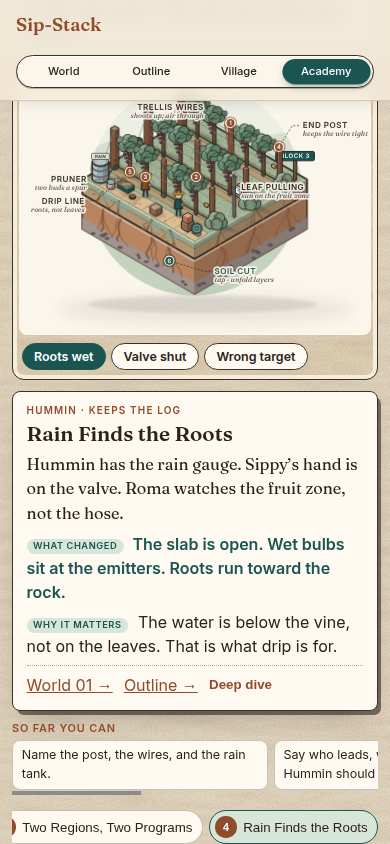
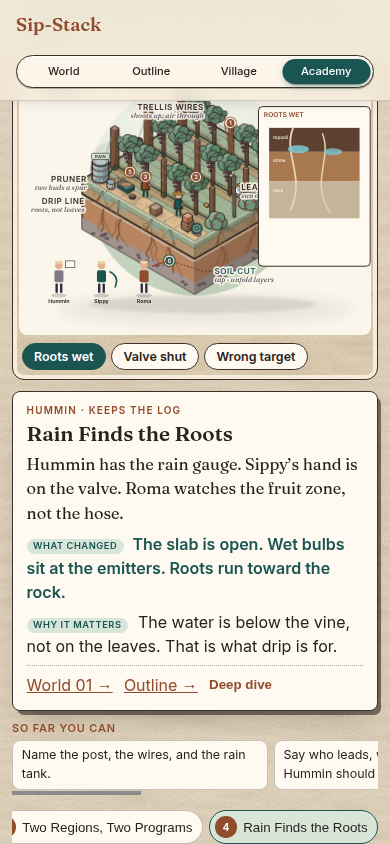
Add story layers on the wine academy boards.
Each beat now draws guides, weather, and a cutaway on the World scene, so the picture changes with the hotspot. Deep dives use a larger cut than the base stop.

diff --git a/docs/assets/sip-academy-layers.js b/docs/assets/sip-academy-layers.js
@@ -1,0 +1,224 @@
+// Academy-only story layers drawn on top of a World isometric scene.
+// Screen space inside the scene viewBox (-12 -4 264 198). Original Sip Studies.
+
+const ink = '#2a221d';
+const clay = '#914C2C';
+const teal = '#1A5552';
+const sand = '#EDD4A8';
+const mauve = '#817985';
+const wood = '#8a5a36';
+const grape = '#6a2030';
+
+const WHO = {
+  sippy: { fill: teal, name: 'Sippy' },
+  roma: { fill: clay, name: 'Roma' },
+  hummin: { fill: mauve, name: 'Hummin' },
+};
+
+function fig(x, y, who, tool) {
+  const fill = WHO[who].fill;
+  const toolSvg = {
+    shears: `<path d="M${x + 6} ${y - 8} l5 -6 m0 2 l5 1" stroke="${ink}" stroke-width=".9" fill="none"/>`,
+    glass: `<path d="M${x + 5} ${y - 20} h5 l1 7 h-7 z" fill="#f4e7c8" stroke="${ink}" stroke-width=".55"/>`,
+    book: `<rect x="${x + 5}" y="${y - 18}" width="7" height="5" fill="#fffaf1" stroke="${ink}" stroke-width=".45"/>`,
+    punch: `<rect x="${x + 6}" y="${y - 30}" width="1.6" height="14" fill="${wood}"/><ellipse cx="${x + 6.8}" cy="${y - 31}" rx="2.4" ry="1" fill="${clay}"/>`,
+    point: `<path d="M${x + 6} ${y - 14} l12 -4" stroke="${clay}" stroke-width="1.1" fill="none"/>`,
+    basket: `<path d="M${x + 4} ${y - 6} h7 l-1 4 h-5 z" fill="#c4a574" stroke="${ink}" stroke-width=".45"/>`,
+    hose: `<path d="M${x + 6} ${y - 10} q8 4 4 12" stroke="${teal}" stroke-width="1.2" fill="none"/>`,
+  }[tool] || '';
+  return `<g class="fig">
+    <ellipse cx="${x}" cy="${y + 8}" rx="6" ry="1.6" fill="#000" opacity=".16"/>
+    <rect x="${x - 2.6}" y="${y - 1}" width="1.8" height="7" rx=".5" fill="#2c3140"/>
+    <rect x="${x + .8}" y="${y - 1}" width="1.8" height="7" rx=".5" fill="#2c3140"/>
+    <rect x="${x - 3.4}" y="${y - 11}" width="6.8" height="9" rx="1.4" fill="${fill}"/>
+    <circle cx="${x}" cy="${y - 14.5}" r="2.8" fill="#e2b08a"/>
+    <ellipse cx="${x}" cy="${y - 17}" rx="3" ry="1.1" fill="${sand}"/>
+    ${toolSvg}
+    <text x="${x}" y="${y + 14}" text-anchor="middle" font-size="4" font-weight="700" fill="${ink}">${WHO[who].name}</text>
+  </g>`;
+}
+
+function sky(kind) {
+  if (kind === 'sun') return `<g class="sky"><circle cx="28" cy="16" r="7" fill="#f0b429"/><path d="M28 4 v4 M28 24 v4 M16 16 h4 M36 16 h4" stroke="#f0b429" stroke-width="1"/></g>`;
+  if (kind === 'frost') return `<g class="sky"><rect x="-12" y="-4" width="264" height="36" fill="#e7f2f8" opacity=".55"/><g fill="#fff" opacity=".9">${[12, 28, 46, 70, 96, 120].map(x => `<circle cx="${x}" cy="14" r="1.1"/>`).join('')}</g></g>`;
+  if (kind === 'rain') return `<g class="sky" stroke="${teal}" stroke-width=".7" opacity=".8">${[18, 32, 48, 64, 80].map(x => `<path d="M${x} 6 l-3 8"/>`).join('')}</g>`;
+  if (kind === 'night') return `<g class="sky"><rect x="-12" y="-4" width="264" height="42" fill="#1c2430" opacity=".28"/><circle cx="210" cy="14" r="2" fill="#f7e7a2"/></g>`;
+  if (kind === 'heat') return `<g class="sky"><circle cx="220" cy="14" r="8" fill="#e26a3a" opacity=".9"/></g>`;
+  return '';
+}
+
+function chip(x, y, text) {
+  const w = text.length * 3.15 + 6;
+  return `<g class="story-chip"><rect x="${x}" y="${y}" width="${w}" height="8" rx="1.5" fill="${teal}"/><text x="${x + w / 2}" y="${y + 5.5}" text-anchor="middle" font-size="4.2" font-weight="700" fill="#fff">${text}</text></g>`;
+}
+
+function plate(x, y, w, h, title) {
+  return { x, y, w, h, open: `<g class="plate"><rect x="${x}" y="${y}" width="${w}" height="${h}" rx="3" fill="#fffaf1" stroke="${ink}" stroke-width=".7"/><text x="${x + 4}" y="${y + 8}" font-size="5" font-weight="700" fill="${clay}">${title}</text>` , close: '</g>' };
+}
+
+function soilCut(big, wet) {
+  const p = plate(big ? 132 : 168, big ? 8 : 22, big ? 120 : 84, big ? 168 : 120, wet ? 'ROOTS WET' : 'SOIL CUT');
+  const x = p.x + 8, y = p.y + 16, w = p.w - 16;
+  const bands = [
+    ['#5d4030', 0, 18, 'topsoil'],
+    ['#a8784e', 18, 22, 'stone'],
+    ['#c4b49a', 40, 28, 'rock'],
+  ];
+  const roots = `<path d="M${x + 18} ${y} C ${x + 10} ${y + 20}, ${x + 28} ${y + 36}, ${x + 16} ${y + 62}" fill="none" stroke="#e7d3b0" stroke-width="1.4"/>
+    <path d="M${x + 40} ${y + 4} C ${x + 48} ${y + 24}, ${x + 30} ${y + 40}, ${x + 46} ${y + 64}" fill="none" stroke="#e7d3b0" stroke-width="1.1"/>`;
+  const bulbs = wet ? `<ellipse cx="${x + 22}" cy="${y + 16}" rx="8" ry="3" fill="#7ec8d4" opacity=".85"/><ellipse cx="${x + 48}" cy="${y + 18}" rx="7" ry="2.6" fill="#7ec8d4" opacity=".75"/>` : '';
+  const graft = big ? `<rect x="${x + w - 28}" y="${y - 2}" width="4" height="14" fill="${wood}"/><rect x="${x + w - 36}" y="${y + 10}" width="20" height="3" fill="${clay}"/><text x="${x + w - 34}" y="${y + 22}" font-size="3.6" fill="${ink}">graft</text><text x="${x + 4}" y="${y + 78}" font-size="3.6" fill="${ink}">you taste the wood above this line</text>` : '';
+  return p.open + bands.map(([c, dy, h, name]) => `<rect x="${x}" y="${y + dy}" width="${w}" height="${h}" fill="${c}"/><text x="${x + 3}" y="${y + dy + 8}" font-size="3.6" fill="#fffaf1">${name}</text>`).join('') + roots + bulbs + graft + p.close;
+}
+
+function berryCut(thick, big) {
+  const p = plate(big ? 128 : 162, big ? 6 : 16, big ? 124 : 90, big ? 172 : 128, thick ? 'THICK SKIN' : 'THIN SKIN');
+  const skin = thick ? (big ? 11 : 7) : (big ? 3 : 2.4);
+  const r = big ? 42 : 28;
+  const cx = p.x + p.w / 2, cy = p.y + (big ? 70 : 58);
+  const labels = big ? `<text x="${cx + r + 2}" y="${cy - r + 8}" font-size="3.6" fill="${ink}">skin</text><text x="${cx - 8}" y="${cy + 4}" font-size="3.6" fill="${ink}">pulp</text><text x="${cx - 10}" y="${cy + 16}" font-size="3.4" fill="${wood}">seed</text><text x="${p.x + 6}" y="${p.y + 150}" font-size="3.8" fill="${ink}">${thick ? 'days in the tank' : 'hours, then press'}</text>` : '';
+  return p.open + `<circle cx="${cx}" cy="${cy}" r="${r}" fill="${grape}"/><circle cx="${cx}" cy="${cy}" r="${Math.max(4, r - skin)}" fill="#e7b3c4"/><ellipse cx="${cx - 6}" cy="${cy}" rx="3" ry="5" fill="${wood}"/><ellipse cx="${cx + 7}" cy="${cy + 4}" rx="2.6" ry="4" fill="${wood}"/>${labels}<text x="${p.x + 6}" y="${p.y + (big ? 164 : 112)}" font-size="3.6" fill="${ink}">${thick ? 'skin stays in the tank' : 'short contact, pale glass'}</text>` + p.close;
+}
+
+function barrelCut(year, big) {
+  const p = plate(big ? 124 : 158, big ? 6 : 18, big ? 128 : 94, big ? 172 : 130, year ? 'ONE YEAR ON' : 'FRESH FILL');
+  const gap = year ? (big ? 22 : 16) : 4;
+  const stave = big ? `<path d="M${p.x + 18} ${p.y + 40} q-6 30 0 70" fill="none" stroke="#c4a574" stroke-width="2"/><text x="${p.x + 8}" y="${p.y + 36}" font-size="3.4" fill="${ink}">stave</text><text x="${p.x + 78}" y="${p.y + 36}" font-size="3.4" fill="${ink}">toast inside</text>` : '';
+  return p.open + stave + `<rect x="${p.x + (big ? 36 : 22)}" y="${p.y + (big ? 40 : 28)}" width="${big ? 58 : 50}" height="${big ? 90 : 70}" rx="6" fill="#6e4328" stroke="${ink}" stroke-width=".6"/>
+    <rect x="${p.x + (big ? 42 : 28)}" y="${p.y + (big ? 48 : 34)}" width="${big ? 46 : 38}" height="${gap}" fill="#d7e6ea"/>
+    <rect x="${p.x + (big ? 42 : 28)}" y="${p.y + (big ? 48 : 34) + gap}" width="${big ? 46 : 38}" height="${(big ? 74 : 64) - gap}" fill="${grape}"/>
+    <text x="${p.x + 8}" y="${p.y + (big ? 156 : 112)}" font-size="3.6" fill="${ink}">${year ? 'gap = ullage · top up' : 'bung in · no tally yet'}</text>` + p.close;
+}
+
+function labBench(which, big) {
+  const p = plate(big ? 124 : 156, big ? 6 : 16, big ? 128 : 96, big ? 172 : 132, big ? 'LAB · THREE GLASSES' : 'LAB SAMPLE');
+  const fills = { steel: '#f4e7c8', oak: grape, lees: '#e7dcc0', fault: '#c46a43' };
+  const fill = fills[which] || '#f4e7c8';
+  return p.open + [0, 1, 2].map(i => `<path d="M${p.x + 14 + i * 26} ${p.y + 36} h12 l2 28 h-16 z" fill="#f7fbfb" stroke="${ink}" stroke-width=".45"/><rect x="${p.x + 16 + i * 26}" y="${p.y + 48}" width="8" height="14" fill="${i === 1 ? fill : '#f4e7c8'}" opacity="${i === 1 ? 1 : .45}"/>`).join('') + `<rect x="${p.x + 12}" y="${p.y + 78}" width="70" height="28" fill="#fff" stroke="${ink}" stroke-width=".45"/><text x="${p.x + 16}" y="${p.y + 90}" font-size="3.6" fill="${ink}">lot · vessel · taste</text><text x="${p.x + 16}" y="${p.y + 98}" font-size="3.6" fill="${teal}">${which}</text>` + p.close;
+}
+
+function bins(kind) {
+  const p = plate(160, 20, 92, 124, kind === 'early' ? 'EARLY · ACID' : kind === 'ripe' ? 'RIPE · BODY' : 'DAWN PICK');
+  const color = kind === 'early' ? '#c4d48a' : '#6a2030';
+  return p.open + `<rect x="${p.x + 14}" y="${p.y + 28}" width="28" height="22" fill="${wood}"/><circle cx="${p.x + 24}" cy="${p.y + 36}" r="4" fill="${color}"/><circle cx="${p.x + 32}" cy="${p.y + 40}" r="3.5" fill="${color}"/><text x="${p.x + 10}" y="${p.y + 68}" font-size="3.8" fill="${ink}">${kind === 'early' ? 'seeds still sharp' : kind === 'ripe' ? 'seeds brown' : 'lamps on · fruit cool'}</text>` + (kind === 'crew' ? `<circle cx="${p.x + 70}" cy="${p.y + 24}" r="4" fill="#f7e7a2"/>` : '') + p.close;
+}
+
+function capTank() {
+  const p = plate(160, 14, 92, 132, 'RED CAP');
+  return p.open + `<rect x="${p.x + 22}" y="${p.y + 24}" width="48" height="70" rx="4" fill="#d7e0e4" stroke="${ink}" stroke-width=".6"/><rect x="${p.x + 26}" y="${p.y + 48}" width="40" height="40" fill="${grape}"/><rect x="${p.x + 26}" y="${p.y + 36}" width="40" height="14" fill="#4a1622"/><rect x="${p.x + 44}" y="${p.y + 16}" width="2" height="24" fill="${wood}"/><text x="${p.x + 8}" y="${p.y + 112}" font-size="3.6" fill="${ink}">skins floating · punch down</text>` + p.close;
+}
+
+function doorRow(open) {
+  const names = ['white', 'rose', 'red', 'champ', 'fort'];
+  const colors = { white: '#e8dfb4', rose: '#e7a3a8', red: grape, champ: '#d4c27a', fort: '#8a5426', none: '#3a332e' };
+  const p = plate(148, 18, 104, 120, open ? open.toUpperCase() + ' ONLY' : 'NO DOOR YET');
+  return p.open + names.map((n, i) => {
+    const on = n === open;
+    return `<rect x="${p.x + 8 + (i % 5) * 19}" y="${p.y + 28}" width="16" height="36" fill="${on ? colors[n] : '#2a2420'}" stroke="${on ? teal : '#111'}" stroke-width="${on ? 1 : .4}"/><text x="${p.x + 16 + i * 19}" y="${p.y + 78}" text-anchor="middle" font-size="3" fill="${ink}">${n[0].toUpperCase()}</text>`;
+  }).join('') + `<text x="${p.x + 8}" y="${p.y + 100}" font-size="3.5" fill="${ink}">${open ? 'other four stay shut' : 'sort first'}</text>` + p.close;
+}
+
+function glasses(mode) {
+  const p = plate(158, 18, 94, 120, mode === 'water' ? 'WATER FIRST' : mode === 'wine' ? 'A THIRD' : 'ONE STYLE EACH');
+  const fills = mode === 'water' ? ['#9fd0dc', '#9fd0dc'] : mode === 'wine' ? ['#9fd0dc', grape] : [sand, '#e7a3a8', grape, '#f7f3ea', '#8a5426'];
+  return p.open + fills.map((c, i) => `<path d="M${p.x + 10 + i * 16} ${p.y + 28} h8 l1 16 h-10 z" fill="#f7fbfb" stroke="${ink}" stroke-width=".4"/><rect x="${p.x + 12 + i * 16}" y="${p.y + 36}" width="5" height="7" fill="${c}"/>`).join('') + p.close;
+}
+
+function spurs() {
+  const p = plate(164, 22, 88, 116, 'BARE SPURS');
+  const posts = [0, 1, 2].map(i => `<rect x="${p.x + 16 + i * 22}" y="${p.y + 36}" width="3" height="28" fill="${'#5b4128'}"/><path d="M${p.x + 17 + i * 22} ${p.y + 40} l8 -6 m-8 8 l-7 -4" stroke="${'#5b4128'}" stroke-width="1.1" fill="none"/>`).join('');
+  return p.open + posts + `<text x="${p.x + 8}" y="${p.y + 84}" font-size="3.6" fill="${ink}">leaves gone · frame stays</text><text x="${p.x + 8}" y="${p.y + 96}" font-size="3.6" fill="${ink}">this sets next year’s crop</text>` + p.close;
+}
+
+function tankCut() {
+  const p = plate(164, 20, 88, 120, 'RAIN TANK');
+  return p.open + `<path d="M${p.x + 20} ${p.y + 28} h20 l6 8 v-20 h-10 z" fill="${clay}"/><rect x="${p.x + 36}" y="${p.y + 36}" width="28" height="40" rx="3" fill="${teal}"/><rect x="${p.x + 40}" y="${p.y + 52}" width="20" height="20" fill="#7ec8d4"/><text x="${p.x + 8}" y="${p.y + 96}" font-size="3.6" fill="${ink}">roof → tank, not leaves</text>` + p.close;
+}
+
+function crew(list) {
+  return list.map((c, i) => fig(18 + i * 28 + (c.dx || 0), 156, c.who, c.tool)).join('');
+}
+
+function crates(label) {
+  const p = plate(160, 24, 92, 112, label);
+  return p.open + `<rect x="${p.x + 16}" y="${p.y + 40}" width="22" height="16" fill="#c4965c" stroke="${ink}" stroke-width=".4"/><rect x="${p.x + 40}" y="${p.y + 32}" width="22" height="16" fill="#b8884e" stroke="${ink}" stroke-width=".4"/><rect x="${p.x + 30}" y="${p.y + 52}" width="22" height="16" fill="#a97a47" stroke="${ink}" stroke-width=".4"/><text x="${p.x + 8}" y="${p.y + 90}" font-size="3.6" fill="${ink}">shade · one load</text>` + p.close;
+}
+
+function crewFor(stopId, beatId) {
+  const table = {
+    campus: { row: [['sippy', 'point'], ['roma', 'glass'], ['hummin', 'book']], frame: [['sippy', 'shears'], ['hummin', 'book']], tank: [['sippy', 'hose'], ['hummin', 'book']] },
+    team: { on: [['sippy', 'hose'], ['roma', 'glass'], ['hummin', 'book']], off: [['sippy', 'point'], ['roma', 'glass'], ['hummin', 'book']], leaf: [['sippy', 'point'], ['roma', 'glass']] },
+    regions: { both: [['roma', 'glass'], ['sippy', 'point'], ['hummin', 'book']], cool: [['roma', 'glass'], ['hummin', 'book']], warm: [['roma', 'glass'], ['sippy', 'point']] },
+    rain: { roots: [['hummin', 'book'], ['sippy', 'hose'], ['roma', 'point']], shut: [['hummin', 'book'], ['sippy', 'point']], leaves: [['roma', 'point'], ['sippy', 'hose']] },
+    berry: { three: [['roma', 'glass'], ['hummin', 'book'], ['sippy', 'point']], thin: [['roma', 'glass']], thick: [['roma', 'glass'], ['hummin', 'book']] },
+    harvest: { early: [['sippy', 'basket'], ['roma', 'point'], ['hummin', 'book']], ripe: [['sippy', 'basket'], ['roma', 'glass']], crew: [['sippy', 'basket'], ['roma', 'point']] },
+    crush: { all: [['sippy', 'basket'], ['hummin', 'book']], loop: [['hummin', 'hose'], ['sippy', 'point']], channel: [['hummin', 'hose']] },
+    ferment: { red: [['roma', 'point'], ['sippy', 'punch']], cap: [['sippy', 'punch'], ['roma', 'glass']], wait: [['roma', 'glass'], ['hummin', 'book']] },
+    crossroads: { white: [['sippy', 'point']], rose: [['sippy', 'point'], ['roma', 'glass']], red: [['sippy', 'punch'], ['roma', 'glass']], champ: [['hummin', 'book'], ['sippy', 'point']], fort: [['hummin', 'book'], ['roma', 'glass']] },
+    lab: { steel: [['hummin', 'book'], ['roma', 'glass']], oak: [['roma', 'glass'], ['hummin', 'book']], lees: [['roma', 'glass'], ['hummin', 'book']] },
+    barrels: { young: [['hummin', 'book'], ['roma', 'glass']], year: [['hummin', 'book'], ['sippy', 'point']], taste: [['roma', 'glass'], ['hummin', 'book']] },
+    bench: { marks: [['hummin', 'shears'], ['sippy', 'point']], young: [['hummin', 'shears']], smell: [['hummin', 'point'], ['roma', 'glass']] },
+    finish: { cold: [['roma', 'glass'], ['hummin', 'book']], clay: [['roma', 'glass']], oak: [['roma', 'glass'], ['hummin', 'book']] },
+    give: { light: [['hummin', 'point'], ['sippy', 'basket']], heavy: [['hummin', 'point']], dock: [['sippy', 'basket']] },
+    bottle: { cork: [['sippy', 'point'], ['hummin', 'book']], screw: [['hummin', 'book'], ['sippy', 'point']], fill: [['sippy', 'point']] },
+    passport: { label: [['hummin', 'book']], cork: [['hummin', 'book'], ['sippy', 'point']], case: [['sippy', 'basket'], ['hummin', 'book']] },
+    flight: { counter: [['roma', 'glass'], ['sippy', 'point'], ['hummin', 'book']], walls: [['sippy', 'point']], chill: [['roma', 'glass']] },
+    journey: { truck: [['sippy', 'basket'], ['hummin', 'book']], dock: [['sippy', 'point']], heavy: [['sippy', 'basket']] },
+    market: { walls: [['sippy', 'point'], ['hummin', 'book']], fifo: [['hummin', 'book'], ['sippy', 'basket']], cold: [['roma', 'glass']] },
+    list: { till: [['sippy', 'point'], ['roma', 'book']], walls: [['sippy', 'point']], glass: [['roma', 'glass']] },
+    handoff: { water: [['sippy', 'glass'], ['roma', 'point']], host: [['sippy', 'point'], ['hummin', 'book']], list: [['roma', 'book'], ['sippy', 'point']] },
+    sip: { pour: [['roma', 'glass'], ['hummin', 'book']], nose: [['roma', 'glass']], ice: [['sippy', 'point'], ['roma', 'glass']] },
+  };
+  const row = table[stopId]?.[beatId] || [['sippy', 'point'], ['roma', 'glass'], ['hummin', 'book']];
+  return crew(row.map(([who, tool], i) => ({ who, tool, dx: i * 4 })));
+}
+
+function plateFor(stopId, beatId, dive) {
+  if (dive && (stopId === 'rain' || beatId === 'graft' || beatId === 'phylloxera' || beatId === 'soil' || beatId === 'drip' || beatId === 'save')) {
+    return soilCut(true, beatId === 'drip' || beatId === 'roots' || beatId === 'leaf');
+  }
+  if (dive && (stopId === 'berry' || beatId === 'vinifera' || beatId === 'american' || beatId === 'clones' || beatId === 'hybrids')) {
+    return berryCut(beatId === 'vinifera' || beatId === 'thick', true);
+  }
+  if (dive && (stopId === 'lab' || beatId === 'numbers' || beatId === 'sulfur' || beatId === 'clear' || beatId === 'fault' || beatId === 'log')) {
+    return labBench(beatId === 'fault' ? 'fault' : beatId === 'log' ? 'oak' : 'steel', true);
+  }
+  if (dive && (stopId === 'barrels' || beatId === 'ullage' || beatId === 'time' || beatId === 'species' || beatId === 'toast' || beatId === 'care')) {
+    return barrelCut(beatId === 'ullage' || beatId === 'time' || beatId === 'care' || beatId === 'year', true);
+  }
+  if (stopId === 'campus' && beatId === 'tank') return tankCut();
+  if (stopId === 'campus' && beatId === 'frame') return spurs();
+  if (stopId === 'rain' || stopId === 'team') return soilCut(false, beatId === 'roots' || beatId === 'on' || beatId === 'leaves');
+  if (stopId === 'berry') return berryCut(beatId === 'thick');
+  if (stopId === 'harvest') return bins(beatId);
+  if (stopId === 'ferment') return capTank();
+  if (stopId === 'crush') return doorRow(null);
+  if (stopId === 'crossroads') return doorRow(beatId);
+  if (stopId === 'lab' || stopId === 'finish') return labBench(beatId === 'oak' ? 'oak' : beatId === 'lees' ? 'lees' : 'steel');
+  if (stopId === 'barrels' || stopId === 'bench') return barrelCut(beatId === 'year' || beatId === 'marks' || beatId === 'smell');
+  if (stopId === 'handoff') return glasses('water');
+  if (stopId === 'sip') return glasses(beatId === 'pour' || beatId === 'nose' ? 'wine' : 'wine');
+  if (stopId === 'flight' || stopId === 'list') return glasses('flight');
+  if (stopId === 'journey' || stopId === 'give' || stopId === 'market') return crates(beatId === 'light' ? 'LIGHT GLASS' : beatId === 'heavy' ? 'HEAVY GLASS' : beatId === 'fifo' ? 'OLDEST UP' : 'THE LOAD');
+  if (stopId === 'bottle' || stopId === 'passport') return glasses('wine');
+  return '';
+}
+
+function skyFor(stopId, beatId) {
+  if (beatId === 'frame' || beatId === 'phylloxera') return sky('frost');
+  if (beatId === 'crew' || beatId === 'cloud') return sky('night');
+  if (beatId === 'tank' || beatId === 'leaves' || beatId === 'shut' || stopId === 'rain') return sky('rain');
+  if (beatId === 'truck' || beatId === 'heavy') return sky('heat');
+  if (stopId === 'campus' || stopId === 'team' || stopId === 'harvest') return sky('sun');
+  return sky('sun');
+}
+
+export function storyMarkup(stopId, beatId, dive) {
+  const title = (beatId || '').replace(/-/g, ' ').toUpperCase();
+  return `<g class="ac-over" data-story="${stopId}:${beatId}" data-dive="${dive ? '1' : '0'}">
+    ${skyFor(stopId, beatId)}
+    ${plateFor(stopId, beatId, dive)}
+    ${crewFor(stopId, beatId)}
+    ${chip(8, 2, dive ? 'DEEP · ' + title : title)}
+  </g>`;
+}

diff --git a/docs/assets/sip-academy.js b/docs/assets/sip-academy.js
@@ -2,6 +2,7 @@
 import { sceneSVG, HOTSPOTS } from './sip-world.js';
 import { GUIDES, WINE_STOPS, DIVES } from './sip-depth-data.js';
 import { WINE_LESSON, DIVE_BEATS } from './sip-wine-lesson.js';
+import { storyMarkup } from './sip-academy-layers.js';
 
 const $ = (s, r = document) => r.querySelector(s);
 const $$ = (s, r = document) => [...r.querySelectorAll(s)];
@@ -103,7 +104,7 @@ export function mountAcademy(root) {
       </div>
       <p class="ac-learn"><b>You are learning:</b> ${learn.replace(/^You are learning:?\s*/i, '')}</p>
       <div class="ac-stage-wrap">
-        <div class="ac-stage" data-chart="${chart}">
+        <div class="ac-stage" data-chart="${chart}" data-dive="${diving ? '1' : '0'}" data-beat="${beat.id}">
           <div class="ac-scene-slot"></div>
           <div class="ac-beats" role="group" aria-label="${diving ? 'Deep dive checks' : 'Scene changes'}">
             ${(diving ? divePack.tabs : pack.beats).map(item => `<button type="button" data-beat="${item.id}" aria-pressed="${item.id === beat.id}">${item.label}</button>`).join('')}
@@ -133,6 +134,7 @@ export function mountAcademy(root) {
     slot.innerHTML = sceneSVG(chart, { title: stop.title });
     const svg = $('svg.scene', slot);
     applyFx(svg, beat.fx);
+    svg.insertAdjacentHTML('beforeend', storyMarkup(stop.id, beat.id, diving));
     if (beat.pin) $(`.tag[data-hs="${beat.pin}"]`, svg)?.classList.add('active');
     player.querySelector(`[data-n="${stop.n}"]`)?.scrollIntoView({ block: 'nearest', inline: 'nearest' });
   }

diff --git a/docs/assets/sip-stack.css b/docs/assets/sip-stack.css
@@ -634,6 +634,9 @@ body.dive-open { overflow: hidden; }
 .ac-stage-wrap { display: grid; grid-template-columns: minmax(0, 1.4fr) minmax(240px, .8fr); gap: .7rem; align-items: start; }
 .ac-stage { position: relative; background: #ecdcbf; background-image: var(--grain), var(--fibers); border: 1.3px solid var(--line); border-radius: 12px; overflow: visible; padding: .35rem .4rem .55rem; box-shadow: inset 0 0 0 4px #f6ecda; }
 .ac-stage .scene { margin: 0; background: #fbf6ec; border-radius: 8px; }
+.ac-over { pointer-events: none; }
+.ac-over text { font-family: var(--sans); }
+.ac-stage[data-dive="1"] .ac-over .plate > rect:first-child { stroke: var(--teal); stroke-width: 1.2; }
 .ac-learn { margin: 0 0 .65rem; padding: .6rem .8rem; background: var(--mint); border: 1px solid rgba(26,85,82,.35); border-radius: 8px; font-size: 1.05rem; line-height: 1.35; }
 .ac-learn b { color: var(--teal); }
 .ac-story { font-family: var(--serif); font-size: 1.02rem; }
